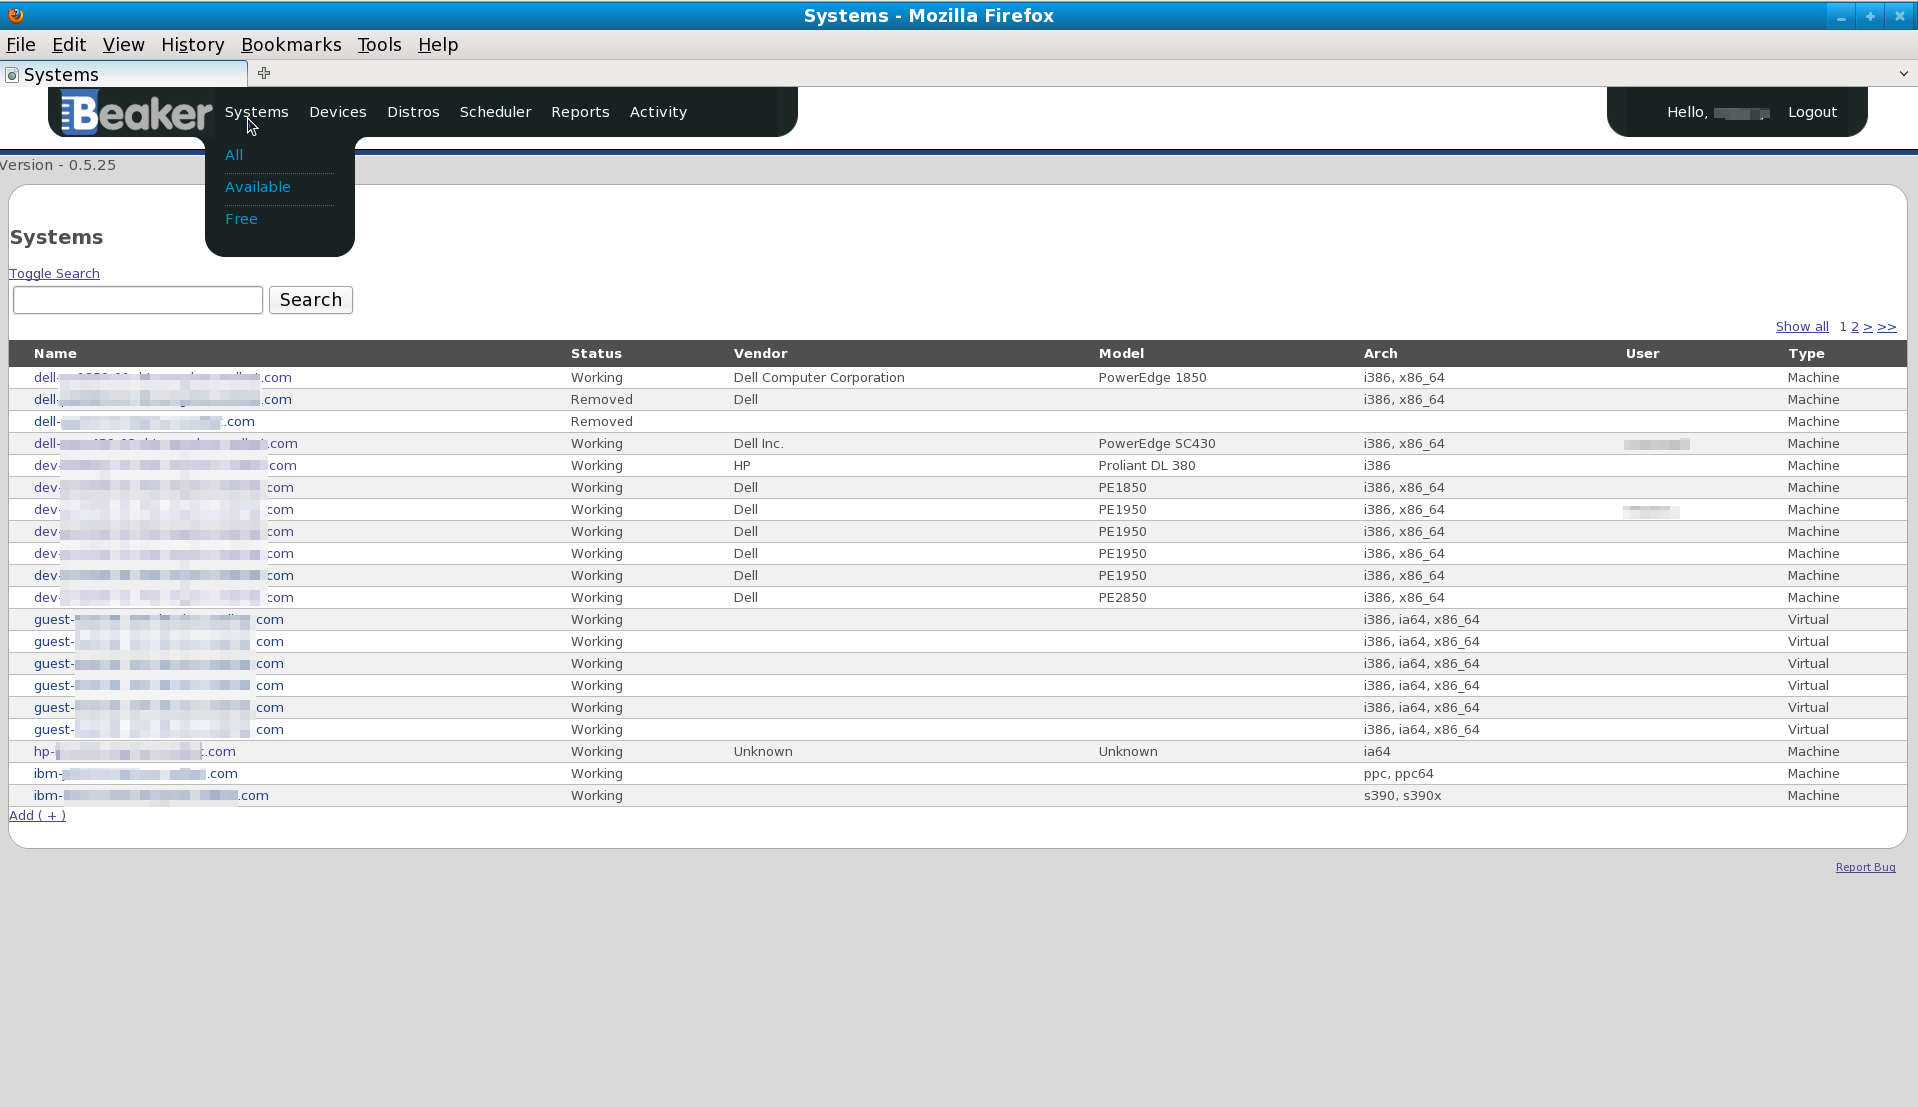
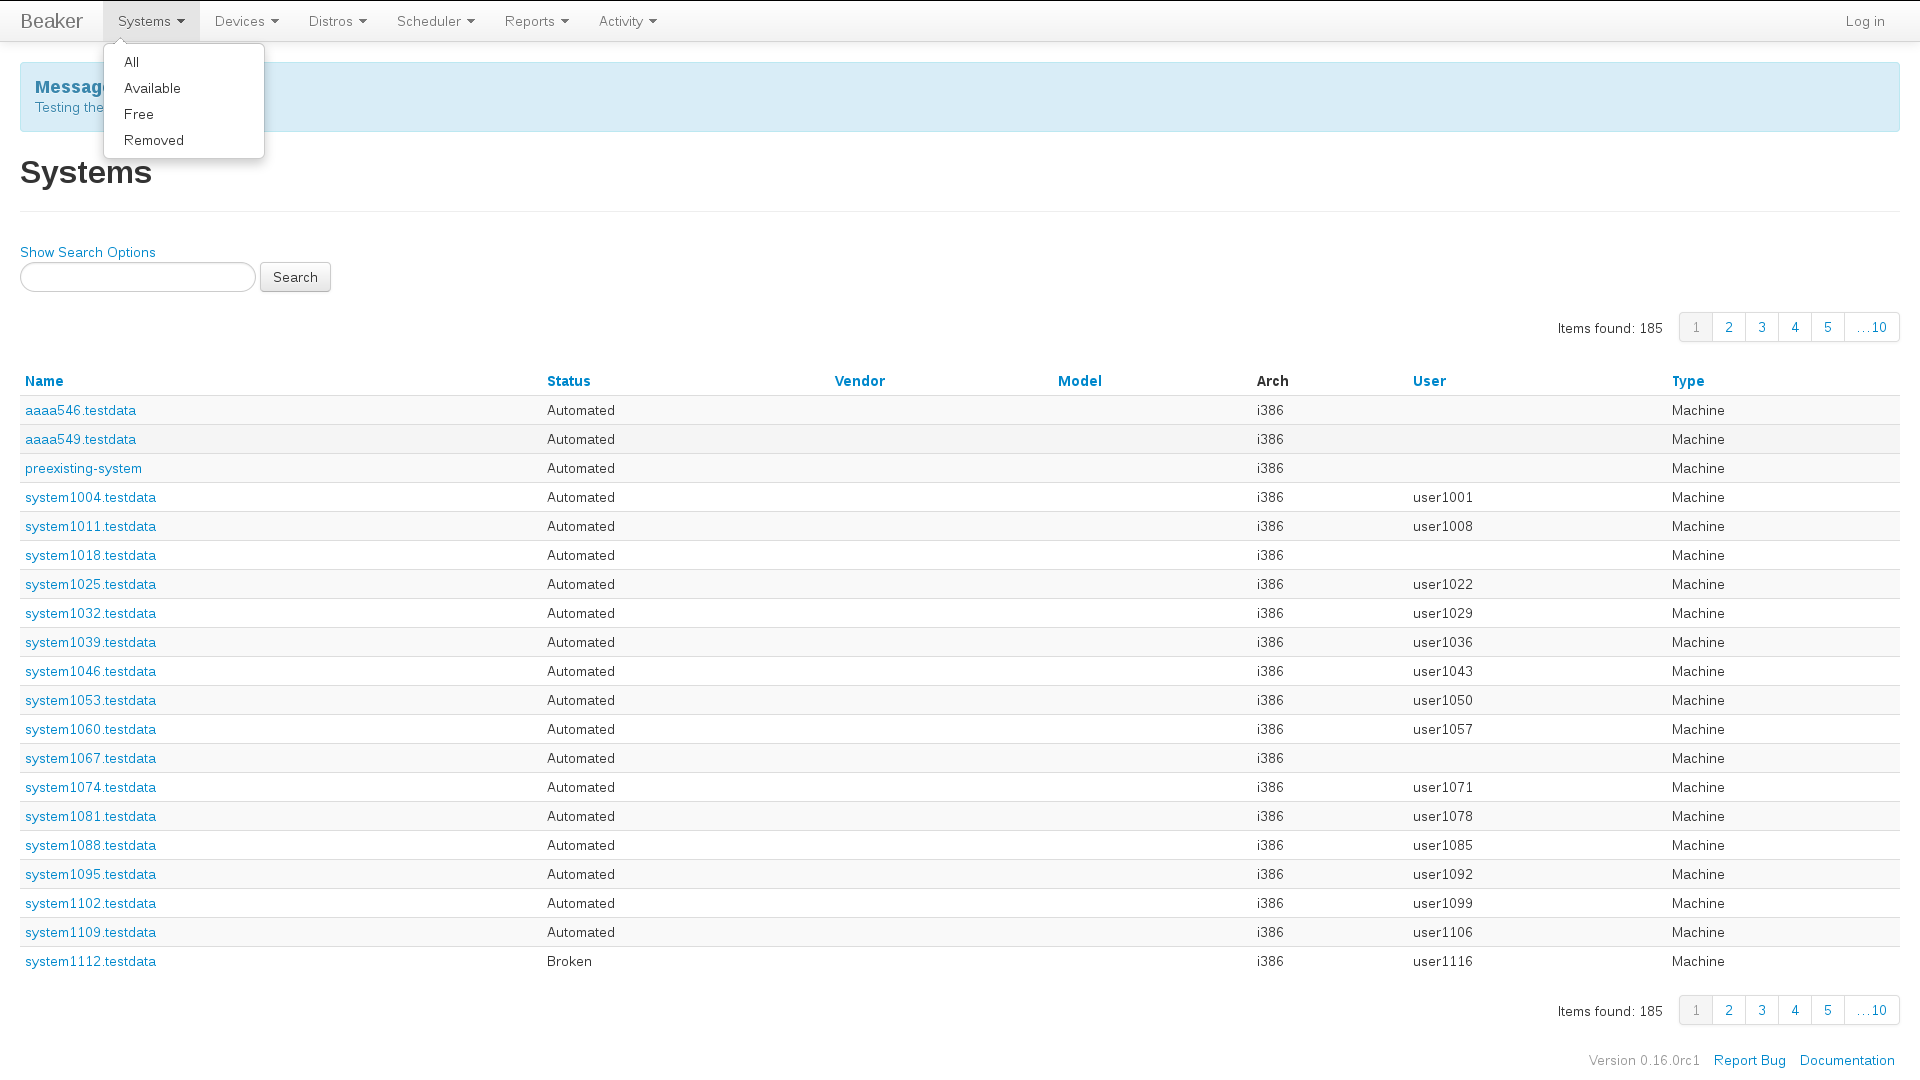
Dedicated systems page for "Removed Systems"
In addition, removed systems are hidden by default in any search where a
list of systems are requested.

Bug: 1000092

diff --git a/Server/bkr/server/controllers.py b/Server/bkr/server/controllers.py
@@ -330,9 +330,9 @@ class Root(RPCRoot):
             content_type='application/atom+xml', accept_format='application/atom+xml')
     @paginate('list', default_order='fqdn', limit=20, max_limit=None)
     def index(self, *args, **kw): 
-        return self._systems(systems=System.all(identity.current.user),
-                title=u'Systems', *args, **kw)
-
+        return self._systems(systems=System.all(identity.current.user).
+                             filter(System.status != SystemStatus.removed),
+                             title=u'Systems', *args, **kw)
 
     @expose(template='bkr.server.templates.grid')
     @expose(template='bkr.server.templates.systems_feed', format='xml', as_format='atom',
@@ -351,6 +351,16 @@ class Root(RPCRoot):
     def free(self, *args, **kw): 
         return self._systems(systems=System.free(identity.current.user),
                 title=u'Free Systems', *args, **kw)
+
+    @expose(template='bkr.server.templates.grid')
+    @expose(template='bkr.server.templates.systems_feed', format='xml', as_format='atom',
+            content_type='application/atom+xml', accept_format='application/atom+xml')
+    @paginate('list', default_order='fqdn', limit=20, max_limit=None)
+    def removed(self, *args, **kw): 
+        return  self._systems(systems=System.all().
+                              filter(System.status == SystemStatus.removed),
+                              title=u'Removed Systems', exclude_status=True, 
+                              *args, **kw)
 
     @expose(template='bkr.server.templates.grid')
     @expose(template='bkr.server.templates.systems_feed', format='xml', as_format='atom',
@@ -443,6 +453,12 @@ class Root(RPCRoot):
         return return_dict
  
     def _systems(self, systems, title, *args, **kw):
+        # To exclude search on System/Status for the "Removed" Systems
+        # page
+        if kw.get('exclude_status', None):
+            exclude_fields = ['Status']
+        else:
+            exclude_fields = []
 
         # Added for group.get_systems()
         if kw.has_key('group_id'):
@@ -459,13 +475,13 @@ class Root(RPCRoot):
                                                    'pos' : 2,
                                                    'callback':url('/get_operators_keyvalue') }],
                                table=su.System.search.create_search_table(\
-                                   [{su.System:{'all':[]}},
+                                    [{su.System:{'exclude':exclude_fields}},
                                     {su.Cpu:{'all':[]}},
                                     {su.Device:{'all':[]}},
                                     {su.Disk:{'all':[]}},
                                     {su.Key:{'all':[]}}]),
                                complete_data = su.System.search.create_complete_search_table(\
-                                   [{su.System:{'all':[]}},
+                                   [{su.System:{'exclude':exclude_fields}},
                                     {su.Cpu:{'all':[]}},
                                     {su.Device:{'all':[]}},
                                     {su.Disk:{'all':[]}},
@@ -550,7 +566,8 @@ class Root(RPCRoot):
                     grid = display_grid,
                     list = systems,
                     searchvalue = searchvalue,
-                    options =  {'simplesearch' : simplesearch,'columns':col_data,
+                    options =  {'simplesearch' : simplesearch,
+                                'columns':col_data,
                                 'result_columns' : default_result_columns,
                                 'col_defaults' : col_data['default'],
                                 'col_options' : col_data['options'],

diff --git a/IntegrationTests/src/bkr/inttest/server/selenium/test_systems.py b/IntegrationTests/src/bkr/inttest/server/selenium/test_systems.py
@@ -13,10 +13,11 @@ from urllib import urlencode, urlopen
 import lxml.etree
 from turbogears.database import session
 
-from bkr.inttest.server.selenium import SeleniumTestCase
+from bkr.inttest.server.selenium import SeleniumTestCase, WebDriverTestCase
 from bkr.inttest import data_setup, get_server_base, with_transaction
 from bkr.inttest.assertions import assert_sorted
-from bkr.server.model import Cpu, Key, Key_Value_String
+from bkr.server.model import Cpu, Key, Key_Value_String, System, SystemStatus
+from bkr.inttest.server.webdriver_utils import check_system_search_results
 
 def atom_xpath(expr):
     return lxml.etree.XPath(expr, namespaces={'atom': 'http://www.w3.org/2005/Atom'})
@@ -181,13 +182,30 @@ class TestSystemsAtomFeed(unittest.TestCase):
     def test_all_systems(self):
         with session.begin():
             systems = [data_setup.create_system() for _ in range(25)]
+            removed_system = data_setup.create_system(status=SystemStatus.removed)
+
         feed_url = urljoin(get_server_base(), '?' + urlencode({
                 'tg_format': 'atom', 'list_tgp_order': '-date_modified',
                 'list_tgp_limit': '0'}))
         feed = lxml.etree.parse(urlopen(feed_url)).getroot()
         self.assert_(self.system_count(feed) >= 25, self.system_count(feed))
         for system in systems:
-            self.assert_(self.feed_contains_system(feed, system.fqdn))
+            self.assertTrue(self.feed_contains_system(feed, system.fqdn))
+        self.assertFalse(self.feed_contains_system(feed, removed_system.fqdn))
+
+    def test_removed_systems(self):
+        with session.begin():
+            system1 = data_setup.create_system(status=SystemStatus.removed)
+            system2 = data_setup.create_system()
+
+        feed_url = urljoin(get_server_base(), 'removed?' + urlencode({
+            'tg_format': 'atom', 'list_tgp_order': '-date_modified',
+            'list_tgp_limit': '0'}))
+        feed = lxml.etree.parse(urlopen(feed_url)).getroot()
+        self.assertEquals(self.system_count(feed), 
+                          System.query.filter(System.status==SystemStatus.removed).count())
+        self.assertTrue(self.feed_contains_system(feed, system1.fqdn))
+        self.assertFalse(self.feed_contains_system(feed, system2.fqdn))
 
     def test_link_to_rdfxml(self):
         with session.begin():
@@ -248,3 +266,28 @@ class TestSystemsAtomFeed(unittest.TestCase):
         feed = lxml.etree.parse(urlopen(feed_url)).getroot()
         self.assert_(self.feed_contains_system(feed, with_module.fqdn))
         self.assert_(not self.feed_contains_system(feed, without_module.fqdn))
+
+class SystemsBrowseTest(WebDriverTestCase):
+
+    def setUp(self):
+        self.browser = self.get_browser()
+
+    def tearDown(self):
+        self.browser.quit()
+
+    def test_group_systems(self):
+
+        b = self.browser
+        with session.begin():
+            group = data_setup.create_group()
+            system1 = data_setup.create_system()
+            system1.groups.append(group)
+            system2 = data_setup.create_system(status=SystemStatus.removed)
+            system2.groups.append(group)
+
+        b.get(urljoin(get_server_base(),
+                      'groups/systems?group_id={0}'.format(group.group_id)))
+        b.find_element_by_xpath('//h1[text()="Systems in Group {0}"]'.format(group.group_name))
+        check_system_search_results(b, present=[system1], absent=[system2])
+        self.assertEqual(
+            b.find_element_by_class_name('item-count').text, 'Items found: 1')

diff --git a/IntegrationTests/src/bkr/inttest/server/selenium/test_system_search.py b/IntegrationTests/src/bkr/inttest/server/selenium/test_system_search.py
@@ -13,6 +13,7 @@ from bkr.inttest.server.webdriver_utils import get_server_base, login, \
 from bkr.inttest import data_setup, with_transaction, get_server_base
 import unittest, time, re, os, datetime
 from turbogears.database import session
+from urlparse import urljoin
 
 class SearchColumns(WebDriverTestCase):
 
@@ -178,7 +179,7 @@ class Search(WebDriverTestCase):
         cls.system_three_details = { 'fqdn' : u'a3',
                                     'type' : u'Laptop',
                                     'arch' : u'ia64',
-                                    'status' : u'Removed',
+                                    'status' : u'Automated',
                                     'owner' : data_setup.create_user(),}
         cls.system_three = data_setup.create_system(**cls.system_three_details)
         cls.system_three.numa = Numa(nodes=1)
@@ -191,6 +192,11 @@ class Search(WebDriverTestCase):
                                       device_class_id = device_class.id,
                                       description = 'blah')
         cls.system_three.devices.append(device2)
+
+        cls.system_four_details = {'status' : u'Removed',}
+        cls.system_four = data_setup.create_system(**cls.system_four_details)
+        cls.system_four.key_values_string.append(Key_Value_String(
+            Key.by_name(u'CPUMODEL'), 'foocodename'))
 
     @classmethod
     def tearDownClass(cls):
@@ -381,7 +387,26 @@ class Search(WebDriverTestCase):
         b.find_element_by_name('systemsearch-0.value').send_keys('foocodename')
         b.find_element_by_id('searchform').submit()
         check_system_search_results(b, present=[self.system_one],
-                absent=[self.system_two, self.system_three])
+                                    absent=[self.system_two, 
+                                            self.system_three, 
+                                            self.system_four])
+
+        # Key Value search from "Removed Systems"
+        b.get(urljoin(get_server_base(), 'removed'))
+        b.find_element_by_link_text('Show Search Options').click()
+        wait_for_animation(b, '#searchform')
+        Select(b.find_element_by_name('systemsearch-0.table'))\
+            .select_by_visible_text('Key/Value')
+        Select(b.find_element_by_name('systemsearch-0.keyvalue'))\
+            .select_by_visible_text('CPUMODEL')
+        Select(b.find_element_by_name('systemsearch-0.operation'))\
+            .select_by_visible_text('is')
+        b.find_element_by_name('systemsearch-0.value').send_keys('foocodename')
+        b.find_element_by_id('searchform').submit()
+        check_system_search_results(b, present=[self.system_four],
+                                    absent=[self.system_one, 
+                                            self.system_two, 
+                                            self.system_three])
 
     def test_by_key_value_is_not(self):
         b = self.browser

diff --git a/Server/bkr/server/group.py b/Server/bkr/server/group.py
@@ -25,7 +25,8 @@ from bkr.server.app import app
 from bkr.server import mail, identity
 
 from bkr.server.model import (Group, Permission, System, User, UserGroup,
-                              Activity, GroupActivity, SystemActivity)
+                              Activity, GroupActivity, SystemActivity, 
+                              SystemStatus)
 
 import logging
 log = logging.getLogger(__name__)
@@ -230,10 +231,12 @@ class Groups(AdminPage):
             flash(_(u'Need a valid group to search on'))
             redirect('../groups/mine')
 
-        systems = System.all(identity.current.user).filter(System.groups.contains(group))
+        systems = System.all(identity.current.user). \
+                  filter(System.groups.contains(group)). \
+                  filter(System.status != SystemStatus.removed)
         title = 'Systems in Group %s' % group.group_name
         from bkr.server.controllers import Root
-        return Root()._systems(systems,title, group_id = group_id,**kw)
+        return Root()._systems(systems, title, group_id = group_id,**kw)
 
     @expose(template='bkr.server.templates.group_form')
     def edit(self, group_id, **kw):
@@ -493,8 +496,11 @@ class Groups(AdminPage):
             groups = session.query(Group)
 
         def get_sys(x):
-            if len(x.systems):
-                return make_link('systems?group_id=%s' % x.group_id, u'System count: %s' % len(x.systems))
+            systems = System.all(identity.current.user). \
+                      filter(System.groups.contains(x)). \
+                      filter(System.status != SystemStatus.removed).all()
+            if len(systems):
+                return make_link('systems?group_id=%s' % x.group_id, u'System count: %s' % len(systems))
             else:
                 return 'System count: 0'
 
@@ -726,7 +732,9 @@ class Groups(AdminPage):
             response.status = 403
             return ['Invalid Group Id']
 
-        systems = group.systems
+        systems = System.all().filter(System.groups.contains(group)). \
+                  filter(System.status != SystemStatus.removed)
+
         return [(system.id, system.fqdn) for system in systems]
 
     # XML-RPC method for creating a group

diff --git a/IntegrationTests/src/bkr/inttest/client/test_list_systems.py b/IntegrationTests/src/bkr/inttest/client/test_list_systems.py
@@ -8,7 +8,7 @@ import unittest2 as unittest
 from turbogears.database import session
 from bkr.inttest import data_setup
 from bkr.inttest.client import run_client, ClientError
-from bkr.server.model import System, Key, Key_Value_String
+from bkr.server.model import System, Key, Key_Value_String, SystemStatus
 import datetime
 
 class ListSystemsTest(unittest.TestCase):
@@ -23,8 +23,20 @@ class ListSystemsTest(unittest.TestCase):
     def test_list_all_systems(self):
         with session.begin():
             data_setup.create_system() # so that we have at least one
+            system1 = data_setup.create_system(status=SystemStatus.removed)
         out = run_client(['bkr', 'list-systems'])
-        self.assertEqual(len(out.splitlines()), System.query.count())
+        self.assertNotIn(system1.fqdn, out.splitlines())
+        self.assertEqual(len(out.splitlines()),
+                         System.query.filter(System.status!=SystemStatus.removed).count())
+
+    def test_list_removed_systems(self):
+        with session.begin():
+            system1 = data_setup.create_system() 
+            system2 = data_setup.create_system(status=SystemStatus.removed)
+        out = run_client(['bkr', 'list-systems', '--removed'])
+        self.assertIn(system2.fqdn, out.splitlines())
+        self.assertEqual(len(out.splitlines()),
+                         System.query.filter(System.status==SystemStatus.removed).count())
 
     #https://bugzilla.redhat.com/show_bug.cgi?id=920018
     def test_list_systems_lc_disabled(self):

diff --git a/Client/src/bkr/client/commands/cmd_list_systems.py b/Client/src/bkr/client/commands/cmd_list_systems.py
@@ -43,6 +43,10 @@ Options
    Like :option:`--available`, but only includes which can be scheduled *right 
    now*.
 
+.. option:: --removed
+
+   Limit to systems which have been marked as ``Removed``.
+
 .. option:: --mine
 
    Limit to systems which are owned by the current user.
@@ -150,6 +154,9 @@ class List_Systems(BeakerCommand):
                 const='free', dest='feed',
                 help='Only include systems available '
                      'to this user and not currently being used')
+        self.parser.add_option('--removed', action='store_const',
+                const='removed', dest='feed',
+                help='Only include systems which have been removed')
         self.parser.add_option('--mine', action='store_const',
                 const='mine', dest='feed',
                 help='Only include systems owned by this user')

diff --git a/Server/bkr/server/search_utility.py b/Server/bkr/server/search_utility.py
@@ -972,7 +972,8 @@ class System(SystemObject):
                                             column_name='group_name',
                                             eagerload=False,)
                          }
-    search_values_dict = {'Status'    : lambda: model.SystemStatus.values(),
+    search_values_dict = {'Status'    : lambda: [status for status in 
+                                                 model.SystemStatus.values() if status != 'Removed'],
                           'Type'      : lambda: model.SystemType.values(),
                           'Hypervisor': lambda: [''] + model.Hypervisor.get_all_names(),
                          }

diff --git a/documentation/user-guide/systems.rst b/documentation/user-guide/systems.rst
@@ -1,8 +1,8 @@
 Systems
 -------
 
-Beaker provides an inventory of Systems(These could be a physical
-machine,laptop,virtual guest, or resource) attached to lab controllers.
+Beaker provides an inventory of Systems(these could be a physical
+machine, laptop, virtual guest, or resource) attached to lab controllers.
 Systems can be added, removed, have details changed, and be provisioned
 among other things.
 
@@ -18,7 +18,8 @@ System searches are conducted by clicking on one of the items of the
 
    -  *All*
 
-      -  Will search through all Systems listed in Beaker.
+      -  Will search through all existing Systems listed in
+         Beaker (excluding systems which have been removed).
 
    -  *Available*
 
@@ -29,6 +30,10 @@ System searches are conducted by clicking on one of the items of the
 
       -  Will search through only Systems that the currently logged in
          user has permission to reserve and are currently free.
+
+   -  *Removed*
+
+      -  Will search through only Systems that have been removed.
 
 .. figure:: system_menu.png
    :width: 100%

diff --git a/documentation/whats-new/next/removed-systems.rst b/documentation/whats-new/next/removed-systems.rst
@@ -1,0 +1,17 @@
+Changes in accessing "Removed" Systems
+--------------------------------------
+
+Systems which have been removed will only be accessible from a new
+page (``Systems -> Removed``). Removed systems will no longer show up
+in any system search elsewhere. Before this change, removed systems
+matching a search criteria would also be listed along with other
+matching systems.
+
+The ``System/Status`` search column is not available on the
+``Systems -> Removed`` page. On the other pages, ``Removed`` has been
+removed from the values that can be searched on.
+
+A new option ``--removed`` has also been added to the ``bkr
+list-systems`` command.
+
+(Contributed by Amit Saha in :issue:`1000092`)
